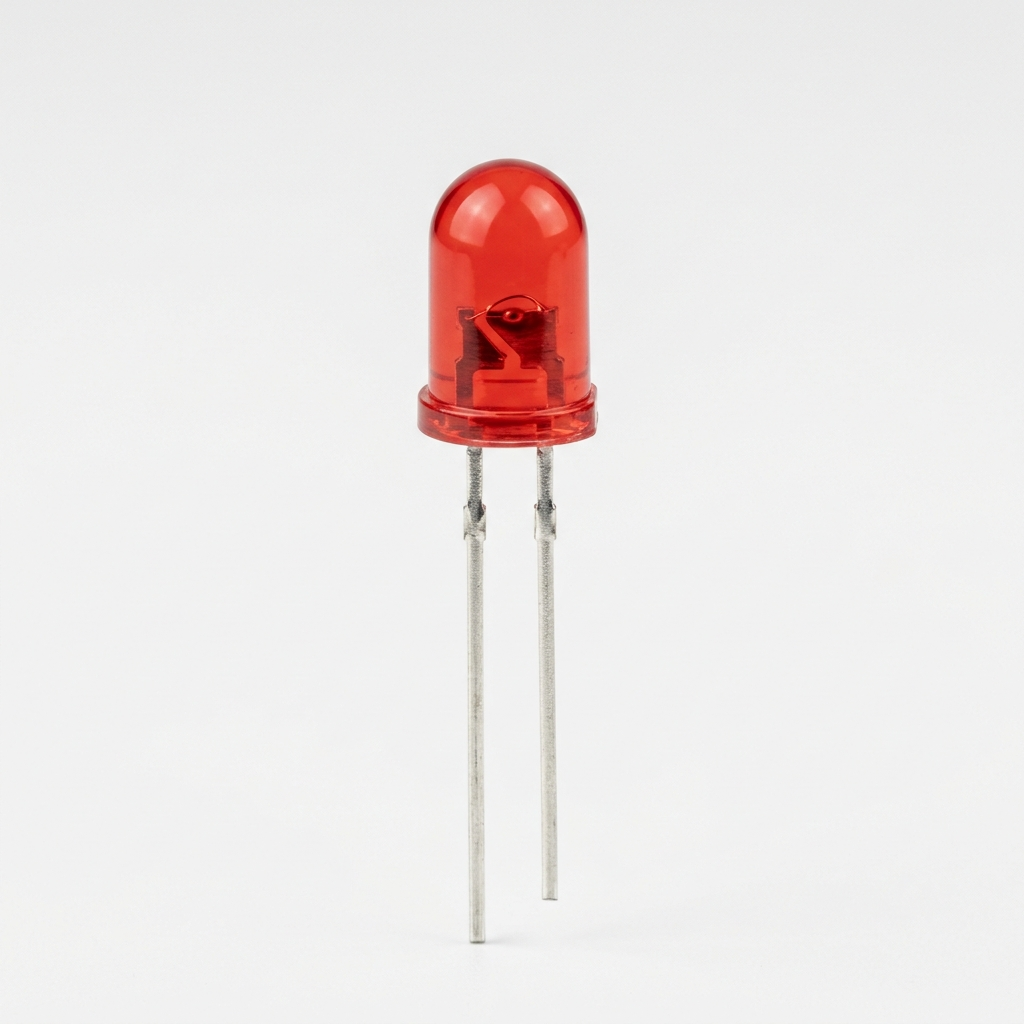
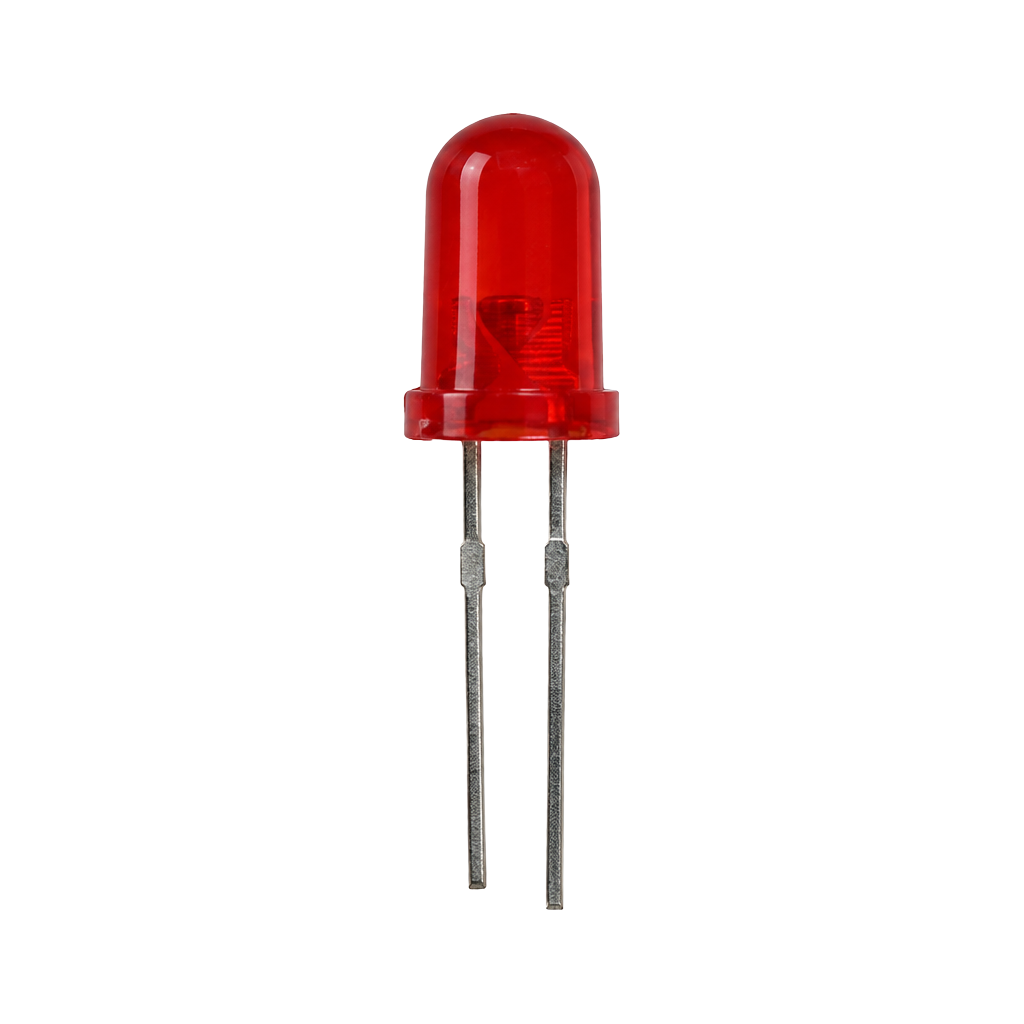
feat(assets): update bulb, LED, and wire realistic component assets

Changed region(s): [[0.375, 0.0938, 0.625, 0.9375]]

diff --git a/lib/models/first_step_component.dart b/lib/models/first_step_component.dart
@@ -178,7 +178,7 @@ extension ComponentTypeAssetX on ComponentType {
       case ComponentType.powerSupply:
         return 'assets/components/power_supply.png';
       case ComponentType.connectingWire:
-        return null;
+        return 'assets/components/wires.png';
     }
   }
 }
